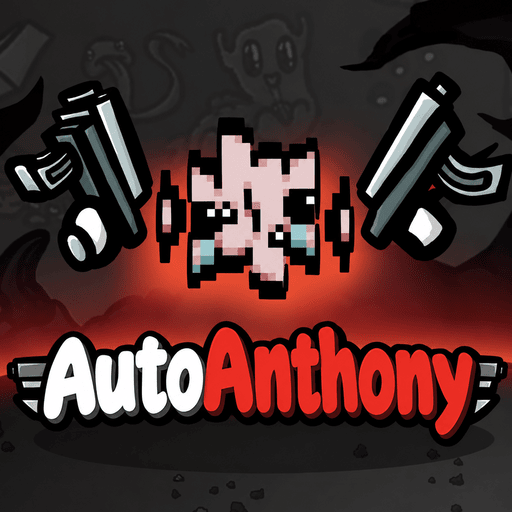
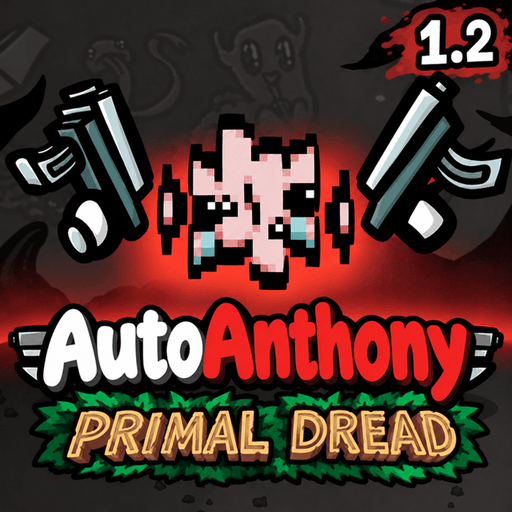
AutoAnthony (2.2.0): improve generation

diff --git a/Mojimoon-AutoAnthony/DESIGN.md b/Mojimoon-AutoAnthony/DESIGN.md
@@ -103,15 +103,15 @@ AutoAnthony（STS2）的核心是三件事，本 mod 全部沿用：
 
 ```
 trigger  扳机       kill / hit / dodge / consumable / gold / heal / level_up / wave_start / wave_end / interval
-                   still / moving / low_hp / full_hp（状态）/ reroll（商店）/ 实验性扳机（见下）
+                   still / moving / low_hp / full_hp / in_puddle（状态）/ reroll（商店）/ 实验性扳机（见下）
 cond     机制条件   暴击 / 目标燃烧 / 目标被诅咒 / 伤害类型 / 敌人生命 ≥ 或 < X% / 自身静止 / 移动 / 低血 / 满血（至多一个）
 数值条件           param（每 N 次）、chance（几率）、cap（每波上限）、cooldown（冷却秒数）（至多一个）
 payload  载荷       temp_stat / perm_stat / timed_stat / heal / gold / xp / damage / explode / 获得效果 / ……
 ```
 
-机制条件限定"哪些事件算数"，每种条件只接在有意义的扳机后面（暴击 / 燃烧 / 诅咒只接击杀，敌人生命只接命中敌人，伤害类型接击杀 / 首次命中 / 命中敌人，自身状态接战斗中的事件扳机），估值时乘满足率；数值条件只控制频率，估值按次数折算。旧版的"暴击击杀""命中生命值高于 X% 的敌人""用 [类型] 伤害击杀"等合成扳机都拆成了扳机 + 机制条件。
+机制条件限定"哪些事件算数"，每种条件只接在有意义的扳机后面（暴击 / 燃烧 / 诅咒只接击杀，进化敌人接击杀 / 命中敌人，敌人生命只接命中敌人，伤害类型接击杀 / 首次命中 / 命中敌人，自身状态接战斗中的事件扳机），估值时乘满足率；数值条件只控制频率，估值按次数折算。旧版的"暴击击杀""命中生命值高于 X% 的敌人""用 [类型] 伤害击杀"等合成扳机都拆成了扳机 + 机制条件。
 
-条款不写入玩家的 effects 字典，而是由运行时触发总线 `aa/runtime.gd` 统一派发，载荷全部复用原版 API。于是**任何扳机都能驱动任何合法载荷**；合法性由一张表决定（`catalog.FREE_LEGAL`，93 种），只排除自激循环（回血 → 回血、拾取材料 → 材料、升级 → 经验）和无意义组合（波初造成伤害、波末回血）。原版 29 种触发效果全部能被这套系统重新表达（测试 `test_15`）。
+条款不写入玩家的 effects 字典，而是由运行时触发总线 `aa/runtime.gd` 统一派发，载荷全部复用原版 API。于是**任何扳机都能驱动任何合法载荷**；合法性由一张表决定（`catalog.FREE_LEGAL`，93 种），只排除自激循环（回血 → 回血、拾取材料 → 材料、升级 → 经验）和无意义组合（波初造成伤害、波末回血）。原版 44 种触发效果全部能被这套系统重新表达（测试 `test_15`）。
 
 **自由触发：任何效果都能成为触发的结果。** 东尼算法构筑性高的一个原因，是能力牌的触发器后面可以挂几乎任何效果。这里的"获得效果"载荷让触发时获得一条完整的效果（可缩放机制、计数型、属性修改），例如"每杀死 8 个敌人，获得「穿透 +1」，直至敌袭结束"。
 
@@ -150,6 +150,7 @@ payload  载荷       temp_stat / perm_stat / timed_stat / heal / gold / xp / da
 | 恢复生命 | 20 | 每 N 秒 | 60 / N |
 | 受击 / 拾取消耗品 | 10 / 7 | 静止 / 移动 | 25% / 75% |
 | 闪避 | 4 | 低血 / 满血 | 15% / 45% |
+| | | 站在水坑里 | 30% |
 
 击杀 / 拾取材料 / 受击 / 回血实际约 110 / 110 / 7 / 12 次，这里略微高估，以压低高频扳机上的单次数值。
 
@@ -163,8 +164,9 @@ payload  载荷       temp_stat / perm_stat / timed_stat / heal / gold / xp / da
 | 永久属性 | 属性权重 × 数值 × 次数 × 累积倍率（T1–T4 = 5 / 4.5 / 4 / 3.5，角色 7） |
 | 回血 / 材料 / 经验 | 每波总量 × 0.5 / 0.75 / 0.25 |
 | 伤害 / 爆炸 | 每波总伤害 × 0.022（爆炸 × 平均命中 2.5） |
+| 时间变慢 X%，N 秒 | 0.07 × X × min(次数 × N, 波长)（同时只取最强的一次，减速时间不超过波长） |
 
-系数用原版道具校准：警戒戒指（每波末 +3% 伤害）给出永久累积倍率，智慧（每 5 秒 +5% 伤害）给出叠层 ≈ 次数 / 2，赛博球 / 反击给出每点伤害的价值，肾上腺素 / 圣杯给出回血的价值。
+系数用原版道具校准：怀表（每波一次 75% × 5 秒）给出时间变慢的单价，照明弹（每杀死一个进化敌人 +1 材料）给出进化敌人的满足率约 15%，泥巴爱好者（IV 级、唯一效果 +60% 伤害）给出水坑在场率约 30%；警戒戒指（每波末 +3% 伤害）给出永久累积倍率，智慧（每 5 秒 +5% 伤害）给出叠层 ≈ 次数 / 2，赛博球 / 反击给出每点伤害的价值，肾上腺素 / 圣杯给出回血的价值。
 
 **计数期望**（"每有 N 个 [计数] 获得 [属性]"，由原版道具反推，`catalog.COUNTER_REF`）：存活敌人约 24、燃烧敌人约 8、护甲约 8、元素约 12、速度约 16、暴击 / 闪避约 25、材料约 240、普通道具约 12、传说道具约 1.5、不同武器 2.5。
 
@@ -265,8 +267,8 @@ payload  载荷       temp_stat / perm_stat / timed_stat / heal / gold / xp / da
   - 肿瘤（异变把复制的效果加在它上面，按 ID 识别）、生命形态扫描仪及其用后形态（离开商店时按 ID 找到持有者替换）；
   - 恐龙蛋链与弹药恐龙：原版每波末按 ID 找到蛋、换成 `replaced_by` 的下一阶，重组后的蛋没有下一阶；蛋的效果在别的道具上不会孵化；
   - 原版化石（见下文"化石"）。
-- **其余进化路线道具**（`catalog.PATH_ITEMS`）：原版每次抽商店时，进化值超过 ±2 就把套组里的路线道具 `duplicate()` 放进池子，复制的正是本 mod 原地改写过的资源，所以重组后的效果自动生效，不需要改商店。重组时保留原版的进化值行（`PRESERVED_NATIVE_KEYS`，价值按 0 计）与原价，第一个特殊行固定为一条本路线的机制（`PATH_MECHANICS`：机械 = 拆解价格、对机械敌人减速、受伤扣材料、武器栏；异变 = 击杀突变敌人回血、突变果实几率、突变时升级道具；塑料靴两条路线都会出现，只带不受水坑影响），其余预算照常生成。它们不计入先验与价格池，不做核心属性 / 偏好词条保底道具（不在常规商店池里）。路线道具的机制照常作为来源。
-- **单边效果**（`SIDE_MECHANICS`）：只对一条路线有意义的效果——机械：拆解价格（拆卸属于机械化）、对机械敌人减速；异变：击杀突变敌人回血、突变果实几率、突变时升级道具、每波异变一次。道具在开局就固定了，玩家走哪条路线要到局中才知道（走机械路线时拿到"击杀突变敌人回血"毫无意义，附带 ±1 进化也救不回来），所以这些效果只出现在同路线的路线道具上；只有本局角色锁定了路线时（机械土豆 = 机械、变异体 = 异变、疯狂科学家 = 双路线）才会出现在普通道具上（`Generator.run_sides`，由 mod_main 按本局角色设置）。其余路线机制（武器栏、受伤扣材料、不受水坑影响）与路线无关，可以出现在任何道具上。
+- **其余进化路线道具**（`catalog.PATH_ITEMS`）：原版每次抽商店时，进化值超过 ±2 就把套组里的路线道具 `duplicate()` 放进池子，复制的正是本 mod 原地改写过的资源，所以重组后的效果自动生效，不需要改商店。重组时保留原版的进化值行（`PRESERVED_NATIVE_KEYS`，价值按 0 计）与原价，第一个特殊行固定为一条"路线行"：约一半是带本路线敌人条件的触发条款（"杀死 / 命中机械敌人时……""杀死 / 命中异变敌人时……"，`PATH_CLAUSE_CHANCE`），其余是一条本路线的机制（`PATH_MECHANICS`：机械 = 拆解价格、对机械敌人减速、受伤扣材料、武器栏；异变 = 击杀突变敌人回血、突变果实几率、突变时升级道具；塑料靴两条路线都会出现，只带不受水坑影响），其余预算照常生成。它们不计入先验与价格池，不做核心属性 / 偏好词条保底道具（不在常规商店池里）。路线道具的机制照常作为来源。
+- **单边效果**（`SIDE_MECHANICS`，以及机械 / 异变敌人条件 `SIDE_CONDS`）：只对一条路线有意义的效果——机械：拆解价格（拆卸属于机械化）、对机械敌人减速；异变：击杀突变敌人回血、突变果实几率、突变时升级道具、每波异变一次。道具在开局就固定了，玩家走哪条路线要到局中才知道（走机械路线时拿到"击杀突变敌人回血"毫无意义，附带 ±1 进化也救不回来），所以这些效果只出现在同路线的路线道具上；只有本局角色锁定了路线时（机械土豆 = 机械、变异体 = 异变、疯狂科学家 = 双路线）才会出现在普通道具上（`Generator.run_sides`，由 mod_main 按本局角色设置）。其余路线机制（武器栏、受伤扣材料、不受水坑影响）与路线无关，可以出现在任何道具上。
 - **化石**：原版 9 件化石不进商店池（商店扩展在重建分档池时移除），改为每局按种子挑选同样数量、同稀有度分布的可掉落普通道具（不含核心属性道具与路线道具）做成化石：名称"化石：<原名>"，效果 = +[属性 A] / 代价 / 每有一件化石 +[属性 A]（复制原版的"每件化石"效果）/ 原版化石计数行，独特。正面价值 = 预算 + 代价换来的预算 = A 行 + "每件化石"行，后者按期望化石数 3.2（含自身）估值：由原版化石反推（"每件化石"行价值 ≈ 价格对应预算 − 属性行），8 件带该行的原版化石中位数约 3.2。A 行与"每件化石"行的单位数之比取 1–3（原版 1–3.3）。
 - 不搬运的效果：进化值（决定果实拾取、路线道具进池与异变能否发生）、生命形态扫描仪、化石计数（只有化石带）。
 - **机械化与异变**是原版在本局中对道具实例的处理，不是另外的道具：机械化只针对武器（商店里以一定几率出现，附带二选一属性，按 `get_base_weapon` 的属性重算强度，重组后的武器同样适用）；异变复制道具并删去一条负面效果，或把玩家道具上的一条正面效果按异变系数复制到肿瘤上。本 mod 的触发条款可以被复制（同类合并）或删除，与原版效果一致；因为肿瘤与异变过的道具没有模板，读档时丢失的条款无法按模板修复，每次异变后条款记入 `aa_state.mutated`，读档时补回。

diff --git a/Mojimoon-AutoAnthony/COVERAGE.md b/Mojimoon-AutoAnthony/COVERAGE.md
@@ -6,12 +6,12 @@
 
 | 处理 | 含义 | 估值 |
 | --- | --- | --- |
-| `trigger`（40 种） | 拆解为 (扳机, 载荷) 先验，由通用触发条款重新表达 | 单位价值 × 每波频率（见 README 第 4 节） |
+| `trigger`（45 种） | 拆解为 (扳机, 载荷) 先验，由通用触发条款重新表达 | 单位价值 × 每波频率（见 README 第 4 节） |
 | `scaling`（28 种） | 计数 × 属性自由搭配重新生成（原版 GainStatForEveryStatEffect） | 目标属性权重 × 数值 × 计数期望 / 每 N；计数期望由原版道具校准 |
 | `next_wave`（1 种） | 下一波（芹菜茶 / 孔雀）：一次性，下一波开始时生效；约一半附带同一行为下的负面行（敌人属性或自身属性降低） | 一波的价值 = 整局价值 / 剩余波数（≈ 2 × 永久累积倍率 − 1）；孔雀校准吻合 |
 | `gain_mod`（3 种） | 属性修改 ±XX% 重新生成（原版 StatGainsModificationEffect） | 属性权重 × 属性期望总量 × XX% |
-| `scalar`（44 种） | 原样搬运，并按预算缩放数值（1 单位 .. 原版 1.5 倍） | 来源道具剩余价值按数值比例折算 |
-| `mechanic`（58 种） | 原样搬运（炮台、宠物、爆炸、武器类加成……） | 道具：来源道具 (预算 − 属性行价值) / 机制数；角色：(角色总价值 − 可估值部分) / 机制数，限制 30–80 |
+| `scalar`（42 种） | 原样搬运，并按预算缩放数值（1 单位 .. 原版 1.5 倍） | 来源道具剩余价值按数值比例折算 |
+| `mechanic`（55 种） | 原样搬运（炮台、宠物、爆炸、武器类加成……） | 道具：来源道具 (预算 − 属性行价值) / 机制数；角色：(角色总价值 − 可估值部分) / 机制数，限制 30–80 |
 | `downside`（15 种） | 作为代价搬运 | 来源道具因它多拿到的正面预算（至少 3） |
 | `weapon_counter`（4 种） | 武器数量计数（常规池）："每把 [不同 / 所有 / IV 级 / I 级] 武器 +X [属性]"，属性与数值重新生成 | 属性权重 × 数值 × 计数期望（不同武器 3.5 / 武器 5 / IV 级 1 / I 级 1.2） |
 | `char_component`（5 种） | 角色效果（常规池）：武器类型加成、对燃烧目标额外伤害、和平主义者、+武器栏 | 按原版角色数值与对应属性 / 材料估值 |
@@ -44,6 +44,7 @@
 | `enemy_percent_damage_taken` | 2 | item | ice_cube Enemies take 10% more damage for 3 seconds when first hit by / smelly_rafflesia Attacks have a 25% chance to make enemies take 25% more dama |
 | `explode_on_consumable` | 2 | item,char | spicy_sauce Consumables have a 50% chance to explode for 15 ([color=whit / c:glutton Consumables have a 100% chance to explode for 10 ([color=whi |
 | `explode_on_death` | 1 | item | rip_and_tear Enemies have a 20% chance to explode for 10 (+5 |
+| `explode_on_evolved_death` | 1 | item | exothermic_reaction Evolved (mecha and mutated) enemies have a 33% chance to exp |
 | `explode_on_hit` | 2 | item,char | krakens_eye You have a 50% chance to explode for 10 (+500%[ / c:bull You explode for 30 (+300%[img=15x15]res |
 | `gain_random_primary_stats_on_go_to_next_wave` | 1 | item | candy_bag Each wave grants 8 points randomly split between your primar |
 | `gain_stat_for_equipped_item_with_stat` | 1 | item | snowball +1 Elemental Damage every time you get an item that increase |
@@ -56,9 +57,12 @@
 | `heal_on_crit_kill` | 1 | item | tentacle +20% chance to heal 1 HP when killing an enemy with a critic |
 | `heal_on_dodge` | 1 | item | adrenaline 50% chance to heal 5 HP when dodging an attack |
 | `heal_on_kill` | 1 | item | goblet +15% chance to heal 1 HP when killing an enemy |
+| `heal_on_mutant_kill` | 1 | item | eldritch_figurine +50% chance to heal 1 HP when killing a mutated enemy |
 | `heal_when_pickup_gold` | 1 | item | cute_monkey +8% chance to heal 1 HP when picking up a material |
 | `item_box_gold` | 1 | item | bag +15 materials when you pick up a crate |
+| `material_on_evolved_enemy_kill` | 1 | item | flare +1 material when you kill evolved (mecha and mutated) enemie |
 | `remove_speed` | 1 | item | ugly_tooth Hitting an enemy removes 5% of their speed. Max 20% |
+| `slow_time_when_below_hp` | 1 | item | pocket_watch Once per wave, enemies and their projectiles are slowed by 7 |
 | `stats_below_half_health` | 2 | char | c:golem +40 % Attack Speed when you have less than 50% health / c:golem +20 % Speed when you have less than 50% health |
 | `stats_end_of_wave` | 18 | item,char | celery_tea +5 % XP Gain at the end of a wave / grinds_magical_leaf +3 Max HP at the end of a wave |
 | `stats_on_fruit` | 1 | char | c:druid 33% chance to get +1 Luck when you pick up a fruit |
@@ -67,6 +71,7 @@
 | `temp_stats_on_dodge` | 1 | char | c:cryptid +3 % Attack Speed until the end of the wave when you dodge a |
 | `temp_stats_on_hit` | 3 | item,char,weapon | triangle_of_power -2 % Damage when you take damage until the end of the wave / c:masochist +5 % Damage when you take damage until the end of the wave |
 | `temp_stats_per_interval` | 4 | item,weapon | medikit +2 HP Regeneration every 5 seconds until the end of the wave / wisdom +5 % Damage every 5 seconds until the end of the wave |
+| `temp_stats_while_being_in_puddle` | 1 | item | mud_lover 60 % Damage while being in a puddle |
 | `temp_stats_while_moving` | 2 | char | c:streamer +40 % Damage while moving / c:streamer +40 % Attack Speed while moving |
 | `temp_stats_while_not_moving` | 10 | item,char,weapon | barricade +8 Armor while standing still / chameleon +20 % Dodge while standing still |
 
@@ -138,7 +143,6 @@
 | `gain_pct_gold_start_wave` | 1 | item | piggy_bank +20% of your materials at the start of waves (stops working  |
 | `gold_drops` | 2 | item,char | evil_hat +70% materials dropped / c:jack +200% materials dropped |
 | `harvesting_growth` | 2 | item,char | crown Harvesting increases by an additional 8% at the end of a wav / c:farmer Harvesting increases by an additional 3% at the end of a wav |
-| `heal_on_mutant_kill` | 1 | item | eldritch_figurine +50% chance to heal 1 HP when killing a mutated enemy |
 | `hit_protection` | 1 | item | tardigrade Nullifies the damage of one hit taken every wave |
 | `increase_material_value` | 1 | char | c:buccaneer Picked up materials have +100% value |
 | `instant_gold_attracting` | 2 | item | baby_gecko +25% chance to instantly attract a material when it��s droppe / sifds_relic +100% chance to instantly attract a material when it��s dropp |
@@ -149,7 +153,6 @@
 | `level_upgrades_modifications` | 1 | item | barnacle +35% stats gained from level upgrades |
 | `loot_alien_chance` | 1 | item | whistle +50% chance for loot aliens to appear |
 | `loot_alien_speed` | 1 | item | whistle +20% movement speed for loot aliens |
-| `material_on_evolved_enemy_kill` | 1 | item | flare +1 material when you kill evolved (mecha and mutated) enemie |
 | `mutate_into_better_tier_chance` | 2 | item,char | wildfire_mutation 25% chance that a mutating item is replaced by a mutated ite / c:variant 50% chance that a mutating item is replaced by a mutated ite |
 | `mutation_fruit_chance` | 1 | item | boosted_mitosis +50% chance for mutated enemies to drop a mutation fruit |
 | `number_of_enemies` | 6 | item,char | gentle_alien +5% Enemies / mouse +10% Enemies |
@@ -202,7 +205,6 @@
 | `dodge_cap` | 4 | item,char | ghost_outfit Dodge is capped at 70% / c:ghost Dodge is capped at 90% |
 | `duplicate_item` | 1 | item | mirror Duplicates the next item you get from the shop (item limits  |
 | `explode_on_consumable_burning` | 1 | char | c:chef Consumables explode for 5x1 (+100%[img= |
-| `explode_on_evolved_death` | 1 | item | exothermic_reaction Evolved (mecha and mutated) enemies have a 33% chance to exp |
 | `explode_on_overkill` | 1 | char | c:ogre Enemies taking double their max health as damage explode for |
 | `explode_when_below_hp` | 1 | item | sunken_bell Once per wave, you explode for 100 (+500%[/colo |
 | `extra_item_in_crate` | 2 | item | pearl +3% chance of finding an extra Pearl in a crate / treasure_map +20% chance of finding an extra item in a crate |
@@ -220,11 +222,9 @@
 | `projectiles_on_death` | 1 | item | baby_with_a_beard One bullet dealing 1 (+100%[img=15x15]r |
 | `reload_when_pickup_gold` | 1 | char | c:buccaneer Picking up a material resets the cooldown of all your weapon |
 | `slow_meca_on_hit` | 1 | item | jamming_backpack Hitting mecha enemies slows them by 50% for 2 seconds |
-| `slow_time_when_below_hp` | 1 | item | pocket_watch Once per wave, enemies and their projectiles are slowed by 7 |
 | `spines_on_hit` | 1 | item | infected_skin 33% chance to shoot 8 spines around you dealing 5 ([color=wh |
 | `structures_can_crit` | 1 | item | pile_of_books Your structures can crit |
 | `structures_cooldown_reduction` | 1 | item | improved_tools Increases the attack speed of your structures by 0% ([color= |
-| `temp_stats_while_being_in_puddle` | 1 | item | mud_lover 60 % Damage while being in a puddle |
 | `upgrade_random_weapon` | 1 | item | anvil A random weapon is upgraded when entering a shop. If you hav |
 | `wandering_bot` | 1 | item | wandering_bot Spawns a little bot that slows down nearby enemies |
 | `weapon_scaling_stats` | 2 | item | frozen_heart Weapon and pet damage additionally scales with 10% Elemental / nail Weapon and pet damage additionally scales with 20% Engineeri |

diff --git a/Mojimoon-AutoAnthony/CHANGELOG.md b/Mojimoon-AutoAnthony/CHANGELOG.md
@@ -1,5 +1,18 @@
 # 更新日志
 
+## 2.2.0（2026-11-04）
+
+### 触发条款
+- 新机制条件"进化敌人"（击杀 / 命中进化敌人时）：取自照明弹、放热反应，只在启用史前惧兽时出现。敌人进化成玩家所在的一边，条件与路线无关。
+- 新机制条件"机械敌人" / "异变敌人"（击杀 / 命中时；邪神雕像的"击杀异变敌人时回血"拆解为先验）：只对一边有意义，只出现在同路线的路线道具上，或本局角色锁定了路线时。
+- 进化路线道具的"路线行"约一半改为带本路线敌人条件的触发条款，其余仍是本路线的机制。
+- 新状态扳机"站在水坑里时"：取自泥巴爱好者。酸液 / 汽油水坑只由丛林地图的敌人留下，只在本局地图是丛林时生成。
+- 新载荷"敌人与敌方投射物减速 X%，持续 N 秒"：取自怀表、时间扭曲者，可接受击、闪避、拾取消耗品、升级、每 N 秒、波次过半。
+- 照明弹、放热反应、泥巴爱好者、怀表的效果改为拆解成通用条款的先验（同其他原版触发效果），不再原样搬运。
+- 时间扭曲者"受伤时时间变慢"按时间变慢的单价重新估值（14 → 约 110，只在高预算道具上出现）。
+
+---
+
 ## 2.1.0（2026-11-04）
 
 ### 史前惧兽
